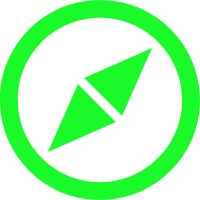
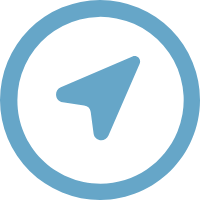
update setting, navigator, assets

diff --git a/front-end/src/utils/navigators.js b/front-end/src/utils/navigators.js
@@ -1,11 +1,12 @@
+import React from 'react';
+import { Text, View, Image } from 'react-native';
 import { createAppContainer, createSwitchNavigator, createDrawerNavigator } from 'react-navigation';
-import { createStackNavigator  } from 'react-navigation-stack';
-import { createBottomTabNavigator  } from 'react-navigation-tabs';
+import { createStackNavigator } from 'react-navigation-stack';
+import { createBottomTabNavigator } from 'react-navigation-tabs';
 
 import AddressScreen from '../../screens/address';
 import CourierMap from '../../screens/couriermap';
 import CustomerScreen from '../../screens/customerscreen';
-import OpenPage from '../../screens/OpenPage';
 import OrderList from '../../screens/OrderList';
 import OrderScreen from '../../screens/PlaceorderPage';
 import Setting from '../../screens/setting';
@@ -13,6 +14,12 @@ import ChangeSetting from '../../screens/ChangeSetting';
 import CustomerList from '../../screens/customerlist';
 import HistoryOrder from '../../screens/HistoryOrder';
 import OrderDetail from '../../screens/OrderDetail';
+import placeNotFocused from '../../assets/placeNotFocused.png';
+import placeFocused from '../../assets/placeFocused.png';
+import settingFocused from '../../assets/settingFocused.png';
+import settingNotFocused from '../../assets/settingNotFocused.png';
+import orderNotFocused from '../../assets/orderNotFocused.png';
+import orderFocused from '../../assets/orderFocused.png';
 
 // import { setDetectionImagesAsync } from 'expo/build/AR';
 
@@ -75,7 +82,7 @@ export const CustomerListStack = createStackNavigator({
 
 export const OrderListStack = createStackNavigator({
   OrderList: { screen: OrderList },
-  OrderDetail: { screen: OrderDetail}
+  OrderDetail: { screen: OrderDetail }
 }, {
   headerMode: 'none',
   navigationOptions: {
@@ -90,7 +97,43 @@ export const CourierTabs = createBottomTabNavigator({
   // Setting:{screen : Setting},
   Setting: SettingSwitch
 
+},
+{
+  defaultNavigationOptions: ({ navigation }) => ({
+    tabBarIcon: ({ focused, horizontal, tintColor }) => {
+      const { routeName } = navigation.state;
+      let IconComponent;
+      let iconname;
+      if (routeName === 'Map') {
+        iconname = focused ? placeFocused : placeNotFocused;
+        IconComponent = IconWithBadge;
+      } else if (routeName === 'Setting') {
+        iconname = focused ? settingFocused : settingNotFocused;
+        IconComponent = IconWithBadge;
+      } else if (routeName === 'OrderList') {
+        iconname = focused ? orderFocused : orderNotFocused;
+        IconComponent = IconWithBadge;
+      }
+
+      // You can return any component that you like here!
+      return <IconComponent source = {iconname}/>;
+    }
+  }),
+  tabBarOptions: {
+    activeTintColor: 'tomato',
+    inactiveTintColor: 'gray'
+  }
 });
+
+class IconWithBadge extends React.Component {
+  render() {
+    return (
+      <View style={{ flex: 1, justifyContent: 'center', alignItems: 'center' }}>
+        <Image source={this.props.source} style={{ width: 30, height: 30 }}/>
+      </View>
+    );
+  }
+}
 
 export const CustomerTabs = createBottomTabNavigator({
   // CustomerScreen: {screen: CustomerScreen},
@@ -99,9 +142,34 @@ export const CustomerTabs = createBottomTabNavigator({
   PlaceOrder: CustomerScreenStack,
   CustomerList: CustomerListStack, // {screen: CustomerList},
   Setting: SettingSwitch
-});
+},
+{
+  defaultNavigationOptions: ({ navigation }) => ({
+    tabBarIcon: ({ focused, horizontal, tintColor }) => {
+      const { routeName } = navigation.state;
+      let IconComponent;
+      let iconname;
+      if (routeName === 'PlaceOrder') {
+        iconname = focused ? placeFocused : placeNotFocused;
+        IconComponent = IconWithBadge;
+      } else if (routeName === 'Setting') {
+        iconname = focused ? settingFocused : settingNotFocused;
+        IconComponent = IconWithBadge;
+      } else if (routeName === 'CustomerList') {
+        iconname = focused ? orderFocused : orderNotFocused;
+        IconComponent = IconWithBadge;
+      }
 
-
+      // You can return any component that you like here!
+      return <IconComponent source = {iconname}/>;
+    }
+  }),
+  tabBarOptions: {
+    activeTintColor: 'tomato',
+    inactiveTintColor: 'gray'
+  }
+}
+);
 
 export const courierStack = createStackNavigator({
   CourierTabs: CourierTabs

diff --git a/bin/controller/order.js b/bin/controller/order.js
@@ -1,9 +1,9 @@
 const { exec } = require('../database/mysql');
 
 /* Accept a order and update order status in database */
-const accept = (orderId, courierId) => {
+const accept = (orderId, courierId, acceptTime, courierPhone) => {
   const sql = `
-        update orders set courierid='${courierId}', status=0 where id=${orderId};
+        update orders set courierid='${courierId}', status=0, acceptTime='${acceptTime}', courierPhone='${courierPhone}' where id=${orderId};
     `;
   return exec(sql).then(rows => {
     return rows;
@@ -31,9 +31,9 @@ const getOrder = (courierId) => {
 const fetchOrder = (userId, usermode, status, short) => {
   let sql = '';
   if (short === 1) {
-    sql += 'select id, content, locFrom, locTo, time, status from orders where ';
+    sql += 'select id, content, locFrom, locTo, time, status, fee, placeTime from orders where ';
   } else {
-    sql += 'select id, userid, courierid, content, lat, lng, deslat, deslng, status, time, locFrom, locTo from orders where ';
+    sql += 'select id, userid, courierid, content, lat, lng, deslat, deslng, status, time, locFrom, locTo, fee, placeTime, acceptTime, finishTime, customerPhone, courierPhone from orders where ';
   }
   // Check all order that courier accept or can acccept
   if (status === 1) {
@@ -68,10 +68,10 @@ const getHistoryOrder = (userId, usermode) => {
 };
 
 /* Place a order, and save all corresponding inforation into the database */
-const place = (userId, content, lat, lng, deslat, deslng, time, locFrom, locTo) => {
+const place = (userId, content, lat, lng, deslat, deslng, time, locFrom, locTo, fee, placeTime, customerPhone) => {
   const sql = `
-    insert into orders (userid, courierid, content, lat, lng, deslat, deslng, status, time, locFrom, locTo) values('${userId}', -1 ,'${content}',
-     '${lat}', '${lng}', '${deslat}', '${deslng}', 1, '${time}', '${locFrom}', '${locTo}');
+    insert into orders (userid, courierid, content, lat, lng, deslat, deslng, status, time, locFrom, locTo, fee, placeTime, customerPhone) values('${userId}', -1 ,'${content}',
+     '${lat}', '${lng}', '${deslat}', '${deslng}', 1, '${time}', '${locFrom}', '${locTo}', '${fee}', '${placeTime}', '${customerPhone}');
     `;
   return exec(sql).then(result => {
     return result;
@@ -79,9 +79,9 @@ const place = (userId, content, lat, lng, deslat, deslng, time, locFrom, locTo) 
 };
 
 /* Finish a order, mark the order 'Zombie' */
-const finish = (orderId) => {
+const finish = (orderId, finishTime) => {
   const sql = `
-        update orders set status=-1 where id='${orderId}';
+        update orders set status=-1, finishTime='${finishTime}' where id='${orderId}';
     `;
   return exec(sql).then(rows => {
     return rows[0] || {};

diff --git a/routes/users.js b/routes/users.js
@@ -22,7 +22,8 @@ router.post('/signup', (req, res) => {
           req.body.fbtoken,
           req.body.apptoken,
           req.body.phonenum,
-          req.body.usermode
+          req.body.usermode,
+          req.body.fbid
         );
         result.then(data => {
           req.session.userid = data.id;
@@ -38,7 +39,8 @@ router.post('/signup', (req, res) => {
           null,
           req.body.apptoken,
           req.body.phonenum,
-          req.body.usermode
+          req.body.usermode,
+          req.body.fbid
         );
         result.then(data => {
           req.session.userid = data.id;
@@ -61,11 +63,12 @@ router.post('/signup', (req, res) => {
           req.body.fbtoken,
           req.body.apptoken,
           req.body.phonenum,
-          req.body.usermode
+          req.body.usermode,
+          req.body.fbid
         );
         result.then(data => {
           req.session.userid = data.id;
-          req.session.username = req.body.username;
+          req.session.username = username;
           req.session.phonenum = req.body.phonenum;
           req.session.usermode = req.body.usermode;
           res.json(new SuccessModel({ userid: data.id, username: username }, 'User Sign Up Succeed!'));

diff --git a/routes/orders.js b/routes/orders.js
@@ -27,7 +27,10 @@ router.post('/place', (req, res) => {
       req.body.deslng,
       req.body.time,
       req.body.locFrom,
-      req.body.locTo
+      req.body.locTo,
+      req.body.fee,
+      req.body.placeTime,
+      req.body.customerPhone
     );
     result.then(data => {
       if (data) {
@@ -48,7 +51,7 @@ router.post('/place', (req, res) => {
 
 /* Finish an order, should be requested when the courier arrived his/her destination, post the order id */
 router.post('/finish', (req, res) => {
-  const result = finish(req.body.orderid);
+  const result = finish(req.body.orderid, req.body.finishTime);
   result.then(data => {
     if (data) {
       res.json(new SuccessModel('Order Finished!'));
@@ -91,7 +94,7 @@ router.post('/accept', (req, res) => {
         new ErrorModel('This Order has been accepted by another courier!')
       );
     } else {
-      const result = accept(req.body.orderid, req.session.userid);
+      const result = accept(req.body.orderid, req.session.userid, req.body.acceptTime, req.body.courierPhone);
       result.then(data => {
         // if (data.affectedRows === 1) {
         //   if (data.changedRows === 1) {

diff --git a/bin/controller/user.js b/bin/controller/user.js
@@ -12,9 +12,9 @@ const update = (username, userId) => {
 };
 
 /* Sign up */
-const signup = (username, password, fbtoken, apptoken, phonenum, usermode) => {
+const signup = (username, password, fbtoken, apptoken, phonenum, usermode, fbid) => {
   const sql = `
-        insert into users (username, fbtoken, apptoken, password, phonenum, usermode) values('${username}', '${fbtoken}', '${apptoken}', '${password}', '${phonenum}', '${usermode}' );
+        insert into users (username, fbtoken, apptoken, password, phonenum, usermode, fbid) values('${username}', '${fbtoken}', '${apptoken}', '${password}', '${phonenum}', '${usermode}', '${fbid}' );
   `;
   return exec(sql).then(result => {
     return {

diff --git a/front-end/screens/setting.js b/front-end/screens/setting.js
@@ -5,12 +5,12 @@ import "../global";
 import Modal from "react-native-modal";
 import { URL, PORT} from "../src/conf";
 
-import self from "../assets/self.png";
-import userMode from "../assets/usermode.png";
-import phone from "../assets/phone.png";
+import self from "../assets/nameIcon.png";
+import userMode from "../assets/modeIcon.png";
+import phone from "../assets/phoneIcon.png";
 import TopBar from "../src/utils/TopBar";
 import Cell from "../src/utils/Cell";
-import choco from "../assets/choco.png";
+import choco from "../assets/idIcon.png";
 
 
 export default class Setting extends React.Component { 
